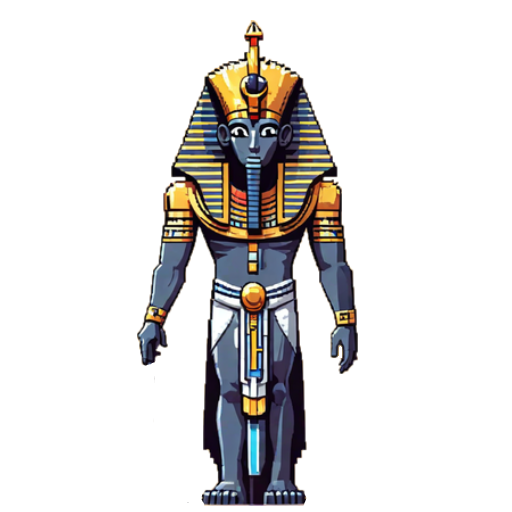
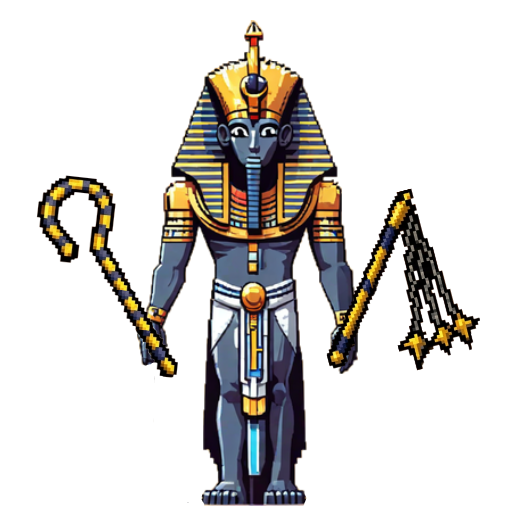
updated tutankhamun boss mechanics

Changed region(s): [[0.625, 0.3438, 0.9375, 0.7188], [0.0625, 0.3438, 0.3438, 0.75]]

diff --git a/Fate/GameEngine.js b/Fate/GameEngine.js
@@ -1340,7 +1340,7 @@ function showNotification(notification) {
 function updateMonsterGrid() {
     game.monsterGrid = {};
     for (let monster of game.monsters) {
-        if (!monster.isDead && monster.type != 'moby' && monster.type != 'seahorse' && monster.type != 'seahorsebaby' && monster.type != 'dinosauregg' && monster.type != 'portal' && monster.type != 'tutankhamun') {
+        if (!monster.isDead && monster.type != 'moby' && monster.type != 'seahorse' && monster.type != 'seahorsebaby' && monster.type != 'dinosauregg' && monster.type != 'tutankhamun') {
             const gridKey = `${Math.floor(monster.x)}_${Math.floor(monster.y)}`;
             if (!game.monsterGrid[gridKey]) {
                 game.monsterGrid[gridKey] = [];
@@ -1538,6 +1538,9 @@ function updateGameObjects() {
                                 case 'seahorsebaby':
                                 case 'portal':
                                 case 'frog':
+                                case 'moon':
+                                case 'sun':
+                                case 'saturn':
                                     break;
                                 case 'dinosauregg':
                                     game.monsterTotal++;
@@ -1613,7 +1616,7 @@ function updateGameObjects() {
                         if (!tutankhamun.pushStartTime) {
                             tutankhamun.pushStartTime = Date.now();
                             tutankhamun.activePush = true;
-                            tutankhamun.pushDuration = 500;
+                            tutankhamun.pushDuration = 1000;
                         }
                     }
                 } else {
@@ -1630,7 +1633,7 @@ function updateGameObjects() {
                         }
                     }
                 }
-                if (!(projectile.type === 'boomerang') && !(projectile.type === 'whirl')) {
+                if (!(projectile.type === 'boomerang') && !(projectile.type === 'whirl') && !(projectile.type === 'force')) {
                     playSound('injured-sound');
                 }
                 projectilesToRemove.add(i);
@@ -3757,10 +3760,10 @@ function updateGameObjects() {
                     }
                     break;
                 case 'tutankhamun':
-                    if (monster.health < 1800 && !monster.spawnFrogPortal) {
+                    if (monster.health < 1500 && !monster.spawnFrogPortal) {
                         monster.spawnFrogPortal = true;
                         for (let i = 0; i < (1 * spawnModifier); i++) {
-                            const validSpots = getOpenSpawnPositions(Math.floor(monster.x), Math.floor(monster.y), 5);
+                            const validSpots = getOpenSpawnPositions(Math.floor(monster.x), Math.floor(monster.y), 9);
                             if (validSpots.length == 0) continue;
                             const spot = validSpots[Math.floor(Math.random() * validSpots.length)];
                             const portal = { ...window.MonsterData.portal, id: `monster_${game.monsterTotal}`, x: spot.x, y: spot.y, spawnType: 'frog', spawnCooldown: 2000 };
@@ -3772,16 +3775,18 @@ function updateGameObjects() {
                             portal.data = getTextureData(monsterTexture);
                             game.monsterTotal++;
                             game.monsters.push(portal);
+                            updateMonsterGrid();
                         }
+                        monster.shieldHealth = monster.maxShieldHealth;
                         playSound('portal-sound');
                     }
-                    if (monster.health < 1600 && !monster.spawnMummyPortal) {
+                    if (monster.health < 1000 && !monster.spawnMummyPortal) {
                         monster.spawnMummyPortal = true;
                         for (let i = 0; i < (1 * spawnModifier); i++) {
-                            const validSpots = getOpenSpawnPositions(Math.floor(monster.x), Math.floor(monster.y), 5);
+                            const validSpots = getOpenSpawnPositions(Math.floor(monster.x), Math.floor(monster.y), 9);
                             if (validSpots.length == 0) continue;
                             const spot = validSpots[Math.floor(Math.random() * validSpots.length)];
-                            const portal = { ...window.MonsterData.portal, id: `monster_${game.monsterTotal}`, x: spot.x, y: spot.y, spawnType: 'mummy', spawnCooldown: 10000 };
+                            const portal = { ...window.MonsterData.portal, id: `monster_${game.monsterTotal}`, x: spot.x, y: spot.y, spawnType: 'mummy', spawnCooldown: 8000 };
                             const monsterTexture = {
                                 id: portal.skin,
                                 width: portal.width,
@@ -3790,13 +3795,17 @@ function updateGameObjects() {
                             portal.data = getTextureData(monsterTexture);
                             game.monsterTotal++;
                             game.monsters.push(portal);
+                            updateMonsterGrid();
                         }
+                        monster.shieldHealth = monster.maxShieldHealth;
                         playSound('portal-sound');
                     }
                     if (distSq < 64 && isVisibleToPlayer(monster)) {
                         if (!monster.lastShot || currentTime - monster.lastShot >= monster.attackCooldown) {
                             const angle = radiansToDegrees(Math.atan2(dy, dx));
+                            game.projectiles.push(new Projectile(monster.x, monster.y, angle - 7, 'force', game.projectileMap['force'], 'monster', 0.2, 0));
                             game.projectiles.push(new Projectile(monster.x, monster.y, angle, 'force', game.projectileMap['force'], 'monster', 0.2, 0));
+                            game.projectiles.push(new Projectile(monster.x, monster.y, angle + 7, 'force', game.projectileMap['force'], 'monster', 0.2, 0));
                             //playSound('shoot-sound');
                             monster.lastShot = currentTime;
                         }
@@ -3831,6 +3840,48 @@ function updateGameObjects() {
                             // Push duration elapsed - deactivate
                             monster.activePush = false;
                             monster.pushStartTime = null;
+                        }
+                    }
+                    if (distSq < 400 && isVisibleToPlayer(monster)) {
+                        const distance = Math.sqrt(distSq);
+                        const invDist = 1 / distance;
+                        const dirX = dx * invDist;
+                        const dirY = dy * invDist;
+                        if (distSq > 55) {
+                            // TOO FAR → move toward player
+                            moveX = dirX * monster.speed;
+                            moveY = dirY * monster.speed;
+                            // Try to move in X direction
+                            const newX = monster.x + moveX;
+                            if (map[Math.floor(monster.y)][Math.floor(newX)] !== 2 && !isMonsterAtPosition(newX, monster.y, monster)) {
+                                monster.x = newX;
+                            }
+                            // Try to move in Y direction
+                            const newY = monster.y + moveY;
+                            if (map[Math.floor(newY)][Math.floor(monster.x)] !== 2 && !isMonsterAtPosition(monster.x, newY, monster)) {
+                                monster.y = newY;
+                            }
+                        } else {
+                            // IN RANGE → strafe sideways
+                            const perpX = -dirY;
+                            const perpY = dirX;
+                            // Optional: switch left/right occasionally
+                            monster.strafeDir = monster.strafeDir ?? (Math.random() < 0.5 ? -1 : 1);
+                            if (Math.random() < 0.01) {
+                                monster.strafeDir *= -1;
+                            }
+                            moveX = perpX * monster.strafeDir * monster.speed;
+                            moveY = perpY * monster.strafeDir * monster.speed;
+                            // Try to move in X direction
+                            const newX = monster.x + moveX;
+                            if (map[Math.floor(monster.y)][Math.floor(newX)] !== 2 && !isMonsterAtPosition(newX, monster.y, monster)) {
+                                monster.x = newX;
+                            }
+                            // Try to move in Y direction
+                            const newY = monster.y + moveY;
+                            if (map[Math.floor(newY)][Math.floor(monster.x)] !== 2 && !isMonsterAtPosition(monster.x, newY, monster)) {
+                                monster.y = newY;
+                            }
                         }
                     }
                     break;
@@ -3893,13 +3944,13 @@ function updateGameObjects() {
 
                         // Try to move in X direction with the charge angle
                         const newX = monster.x + chargeDx;
-                        if (map[Math.floor(monster.y)][Math.floor(newX)] !== 2 && !isMonsterAtPosition(newX, monster.y, monster)) {
+                        if (map[Math.floor(monster.y)][Math.floor(newX)] !== 2 && !isMonsterAtPosition(newX, monster.y, monster, ['frog'])) {
                             monster.x = newX;
                         }
 
                         // Try to move in Y direction with the charge angle
                         const newY = monster.y + chargeDy;
-                        if (map[Math.floor(newY)][Math.floor(monster.x)] !== 2 && !isMonsterAtPosition(monster.x, newY, monster)) {
+                        if (map[Math.floor(newY)][Math.floor(monster.x)] !== 2 && !isMonsterAtPosition(monster.x, newY, monster, ['frog'])) {
                             monster.y = newY;
                         }
 
@@ -4823,7 +4874,7 @@ function drawSpriteInWorld(sprite) {
         spriteWidth = Math.floor(game.projection.halfWidth / distance * spriteScale);
         const spriteY = game.projection.halfHeight - spriteHeight / 2;
         // Drawn Energy Shield if monster has one and is not dead
-        if (sprite.type && sprite.shieldHealth !== undefined && sprite.shieldHealth > 0 && distance < 10 && spriteX >= 0 && spriteX <= game.projection.width) {
+        if (sprite.type && sprite.shieldHealth !== undefined && sprite.shieldHealth > 0 && distance < 15 && spriteX >= 0 && spriteX <= game.projection.width) {
             drawEnergyShield(spriteX, spriteY + spriteHeight / 2, spriteWidth / 2, sprite.shieldHealth, sprite.maxShieldHealth);
         }
         drawSprite(spriteX, spriteWidth, spriteHeight, sprite);
@@ -5224,9 +5275,9 @@ function drawEnergyShield(centerX, centerY, radius, shieldHealth, maxShieldHealt
     radius *= pulse;
 
     // Layered colors
-    const innerColor = new Color(200, 225, 235, 255 * alpha); 
-    const midColor = new Color(40, 150, 200, 255 * alpha); 
-    const outerColor = new Color(25, 70, 160, 255 * alpha); 
+    const innerColor = new Color(200, 225, 235, 255 * alpha);
+    const midColor = new Color(40, 150, 200, 255 * alpha);
+    const outerColor = new Color(25, 70, 160, 255 * alpha);
 
     // Outer glow (soft halo)
     for (let i = 0; i < 3; i++) {

diff --git a/Fate/Monsters.js b/Fate/Monsters.js
@@ -853,7 +853,7 @@ window.MonsterData = {
         skin: 'tutankhamun-sprite',
         audio: 'tutankhamun',
         health: 2000,
-        speed: 0.04,
+        speed: 0.02,
         isDead: false,
         width: 512,
         height: 512,

diff --git a/CONTRIBUTING.md b/CONTRIBUTING.md
@@ -69,3 +69,4 @@
 - scarab steals a random weapon, creates mimics of himself
 - wizard that randomly attacks you on a predetermined level, only active for 1 minute, killing him gives you a powerful weapon or drops a red portal to somewhere
 - projectile reflect
+- gibbing animations for enemies, planets crumble, purple magic spawn animations
